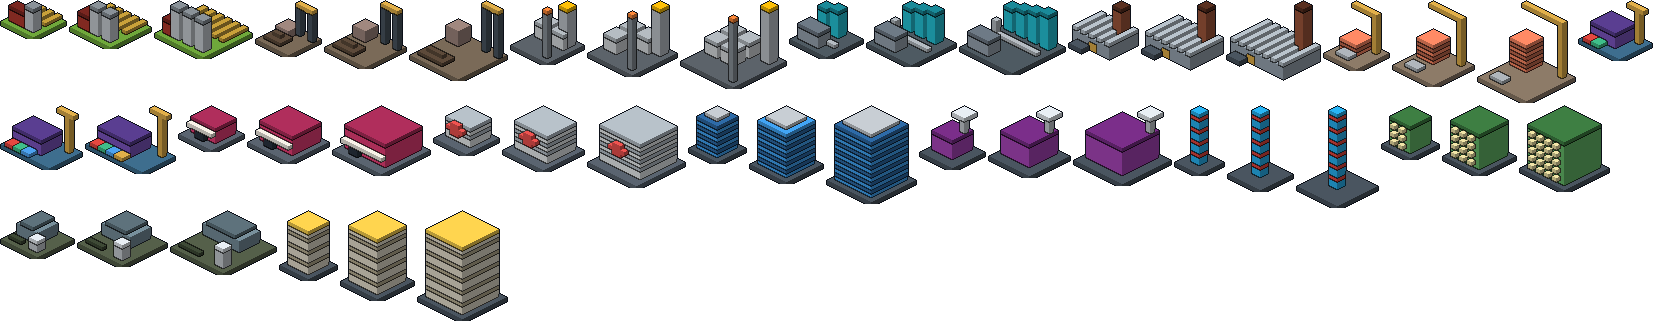
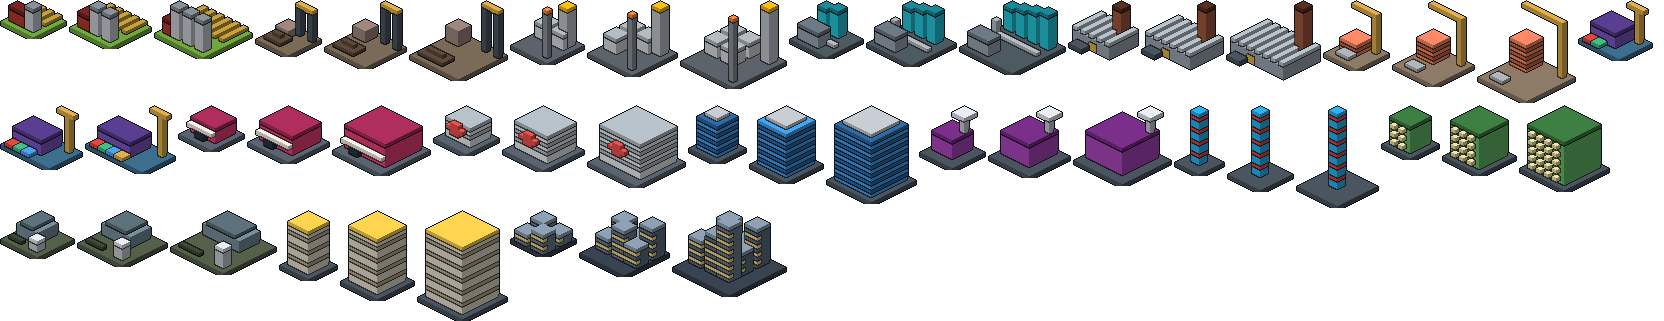
feat(compose): cities as voxel blocks by population

Changed region(s): [[0.2812, 0.6542, 0.4688, 0.9346]]

diff --git a/compose/shared/src/jvmShared/kotlin/net/lakesidegames/corporatewarfare/MapScreen.kt b/compose/shared/src/jvmShared/kotlin/net/lakesidegames/corporatewarfare/MapScreen.kt
@@ -571,10 +571,15 @@ internal fun DrawScope.drawWorldMap(
         val close = cam.zoom > 14
         val nightNow = sun != null
         // City skylines, then the player's divisions as buildings, nearest drawn last.
+        val cityTops = HashMap<String, Float>()
         if (graphics.buildings >= 2 && cam.zoom > 6 && t > 0.5) {
-            g.skylines(ground).forEach { box ->
-                val windows = if (nightNow && light.facing(box.lon, box.lat) < 0) 0.75f else if (graphics.lighting == 2) 0.22f else 0f
-                drawBox(p, box.gx, box.gy, box.half, box.floor, box.top, SkylineColor, windows)
+            // Each big city on screen is a voxel city block sized by its population, a step smaller
+            // than the player's buildings so those stay the stars.
+            val voxelScale = (Voxels.scale(g.scale, density) - 1).coerceAtLeast(1)
+            g.cityBlocks(ground).forEach { block ->
+                val base = p.lift(block.gx.toDouble(), block.gy.toDouble(), block.floor)
+                val top = with(Voxels) { drawBuilding("city", block.plants, base, voxelScale) }
+                if (top != null) cityTops[block.name] = top
             }
         }
         val cityLift = plinth
@@ -582,7 +587,7 @@ internal fun DrawScope.drawWorldMap(
             if (!close && city.country != "USA") return@forEach
             val floor = g.cityFloor(city.name, ground)
             val at = p.project(point, floor) ?: return@forEach
-            val above = g.skylineTop(city.name)?.let { p.lift(it.x.toDouble(), it.y.toDouble(), it.h) }
+            val above = cityTops[city.name]?.let { Offset(at.x, it) }
             drawCircle(Palette.primaryText.copy(alpha = 0.85f), radius = 2.5f, center = at)
             val label = measurer.measure(city.name, TextStyle(color = Palette.primaryText.copy(alpha = 0.9f), fontSize = 10.sp, fontWeight = FontWeight.SemiBold, shadow = LabelShadow))
             val anchorY = above?.y?.let { min(it, at.y) } ?: at.y
@@ -685,6 +690,9 @@ internal class Building(
 )
 
 internal class TopPoint(val x: Float, val y: Float, val h: Double)
+
+/** A city drawn as a voxel block: ground offsets from the view centre, the tile it stands on, and a size stand-in. */
+internal class CityBlock(val name: String, val gx: Float, val gy: Float, val floor: Double, val plants: Int)
 
 /**
  * The map projected for one camera and view size. Each path is built the first time it is drawn
@@ -831,6 +839,31 @@ internal class MapGeometry(val map: WorldMap, val cam: MapCamera, val size: Size
             skylineKey = heights
         }
         return skylineValue
+    }
+
+    private var blocksKey: Map<String, Double>? = null
+    private var blocksValue: List<CityBlock> = emptyList()
+
+    /**
+     * The thirty biggest cities on screen as voxel city blocks, far ones first; [CityBlock.plants]
+     * carries a stand-in plant count that picks the block size (town, city, metropolis).
+     */
+    fun cityBlocks(heights: Map<String, Double>): List<CityBlock> {
+        if (blocksKey !== heights) {
+            blocksValue = map.cities.sortedByDescending { it.first.population }.asSequence()
+                .mapNotNull { (city, point) ->
+                    val ground = p.ground(point.lon[0], point.lat[0])
+                    if (!ground.isSpecified) return@mapNotNull null
+                    val screen = p.lift(ground.x.toDouble(), ground.y.toDouble(), 0.0)
+                    if (screen.x !in -60f..size.width + 60 || screen.y !in -60f..size.height + 60) return@mapNotNull null
+                    // Below a million people a town block, below four million a city, above that a metropolis.
+                    val stand = when { city.population < 1_000_000 -> 2; city.population < 4_000_000 -> 5; else -> 12 }
+                    CityBlock(city.name, ground.x, ground.y, cityFloor(city.name, heights), stand)
+                }
+                .take(30).sortedBy { it.gy }.toList()
+            blocksKey = heights
+        }
+        return blocksValue
     }
 
     /** The top of a city's tallest tower, once its skyline has been built. */

diff --git a/tools/voxel_sprites.py b/tools/voxel_sprites.py
@@ -1,8 +1,8 @@
 #!/usr/bin/env python3
-"""Bake the voxel buildings that stand for the player's divisions on the map.
+"""Bake the voxel buildings on the map: the player's divisions and the cities.
 
 Each of the fifteen industries has a small voxel model in three sizes (a division grows from
-small to large with its plant count), drawn in 2:1 dimetric view with cel shading: three flat
+small to large with its plant count), and cities have a block in three sizes by population, drawn in 2:1 dimetric view with cel shading: three flat
 tones per colour (lit top, left, darker right), ink lines where colours meet, and a dark outline
 round the silhouette. Every model is rendered at three pixel scales so the map can always draw a
 sprite one to one, crisp at any zoom, without resampling.
@@ -212,10 +212,30 @@ def financial(s):
     return m
 
 
+def city(s):
+    """A city block: houses for a town, mid-rise for a city, towers for a metropolis."""
+    w = 8 + 3 * s
+    m = Model().box(0, 0, 0, w, w, 1, "#3A4450")
+    heights = [(1, 1, 3 + 2 * s), (5, 1, 2 + s), (1, 5, 2 + s), (5, 5, 4 + 3 * s)]
+    if s >= 1:
+        heights += [(8, 1, 5 + 2 * s), (8, 5, 3 + s)]
+    if s >= 2:
+        heights += [(1, 8, 6), (5, 8, 9), (8, 8, 13)]
+    for x, y, h in heights:
+        if x + 3 > w or y + 3 > w:
+            continue
+        body = "#5E7184" if (x + y) % 2 else "#6B7F93"
+        m.box(x, y, 1, x + 3, y + 3, 1 + h, body)
+        for z in range(2, 1 + h, 2):
+            m.box(x, y + 2, z, x + 3, y + 3, z + 1, "#F2D58A")
+        m.box(x, y, 1 + h, x + 3, y + 3, 2 + h, "#8FA2B4")
+    return m
+
+
 MODELS = {
     f.__name__: f for f in (
         agriculture, extraction, energy, chemical_industries, manufacturing, construction, logistics,
-        retail, healthcare, technology, media, telecommunications, real_estate, defense, financial,
+        retail, healthcare, technology, media, telecommunications, real_estate, defense, financial, city,
     )
 }
 

diff --git a/CHANGELOG.md b/CHANGELOG.md
@@ -16,7 +16,9 @@ heading.
 - Your divisions stand on the map as cel-shaded voxel buildings, one model per industry (a farm
   with barn and silos, a mine headframe, a refinery, a chemical works, a factory, a building site,
   a port, a shop, a hospital, an office tower, a studio, a mast, apartments, a base, a bank) in
-  three sizes that grow with the division's plants. `tools/voxel_sprites.py` bakes them.
+  three sizes that grow with the division's plants. Cities on the map are voxel city blocks too,
+  a town, a city or a metropolis by population, a step smaller so your buildings stand out.
+  `tools/voxel_sprites.py` bakes them.
 
 ### Fixed
 
